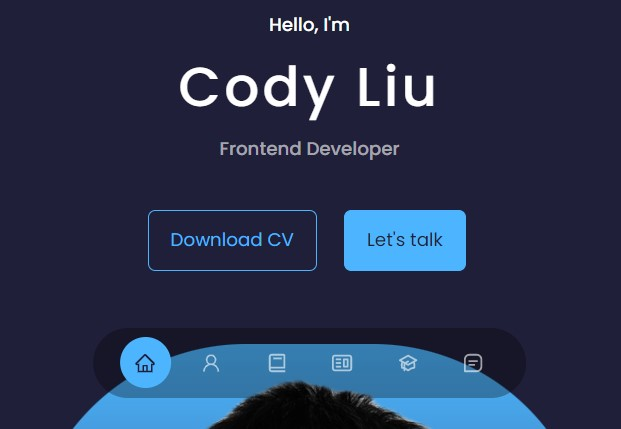
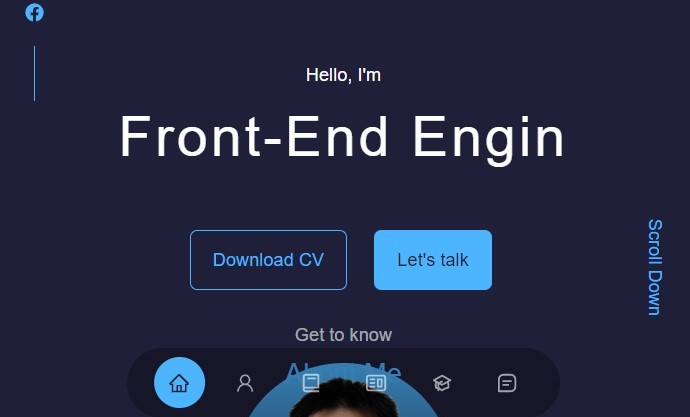
Update content and add typing

diff --git a/src/Components/Portfolio/Portfolio.js b/src/Components/Portfolio/Portfolio.js
@@ -1,4 +1,4 @@
-import React from "react";
+import React, { useState } from "react";
 import "./Portfolio.css";
 import IMG1 from "../../Assets/portfolio-image-1.jpg";
 import IMG2 from "../../Assets/portfolio-image-2.jpg";
@@ -15,70 +15,125 @@ const data = [
     image: IMG1,
     title: "TasBulk (WordPress)",
     host: "https://tasbulk.com.au/",
+    tags: ["Html/Css", "WordPress"],
   },
   {
     id: 2,
     image: IMG2,
     title: "Accounting Firm",
     host: "http://www.accotaxadvisory.com.au/",
+    tags: ["Html/Css"],
   },
   {
     id: 3,
     image: IMG3,
     title: "Omnifood",
     host: "https://food-congliu.netlify.app/",
+    tags: ["Html/Css"],
   },
   {
     id: 4,
     image: IMG4,
     title: "Today I learned",
     host: "https://todayilearned-cody.netlify.app/",
+    tags: ["React"],
   },
   {
     id: 5,
     image: IMG5,
     title: "Natours",
     host: "https://natours-congliu.netlify.app/",
+    tags: ["Html/Css"],
   },
   {
     id: 6,
     image: IMG6,
     title: "Drum Kit",
     host: "https://drum-congliu.netlify.app/",
+    tags: ["JavaScript"],
   },
   {
     id: 7,
     image: IMG7,
     title: "Guess My Number",
     host: "https://guess-congliu.netlify.app/",
+    tags: ["JavaScript"],
   },
   {
     id: 8,
     image: IMG8,
     title: "My Own Website",
     host: "https://liucong789.github.io/my-personal/",
+    tags: ["React"],
   },
 ];
 
 const Portfolio = () => {
+  const [selectedTag, setSelectedTag] = useState("All");
+  const [projectsToShow, setProjectsToShow] = useState(6);
+
+  const uniqueTags = [
+    "All",
+    ...new Set(data.map((project) => project.tags).flat()),
+  ];
+
+  const handleTagClick = (tag) => {
+    setSelectedTag(tag);
+    setProjectsToShow(6);
+  };
+
+  const handleLoadMoreClick = () => {
+    setProjectsToShow((prev) => prev + 6);
+  };
+
   return (
     <section id="portfolio">
       <h4>My recent work</h4>
       <h2>Portfolio</h2>
+      <div className="container tags__container">
+        <ul className="tag-list">
+          {uniqueTags.map((tag) => (
+            <li key={tag}>
+              <button
+                className={`btn btn-primary btn-tags ${
+                  selectedTag === tag ? "selected" : ""
+                }`}
+                onClick={() => handleTagClick(tag)}
+              >
+                {tag}
+              </button>
+            </li>
+          ))}
+        </ul>
+      </div>
+
       <div className="container portfolio__container">
-        {data.map(({ id, image, title, host }) => {
-          return (
-            <article key={id} className="portfolio__item">
-              <div className="portfolio__item-image">
-                <img src={image} alt={title} />
-              </div>
-              <h3>{title}</h3>
-              <a href={host} className="btn" target="_blank">
-                See the website
-              </a>
-            </article>
-          );
-        })}
+        {data
+          .filter(
+            (project) =>
+              selectedTag === "All" || project.tags.includes(selectedTag)
+          )
+          .slice(0, projectsToShow)
+          .map(({ id, image, title, host }) => {
+            return (
+              <article key={id} className="portfolio__item">
+                <div className="portfolio__item-image">
+                  <img src={image} alt={title} />
+                </div>
+                <h3>{title}</h3>
+                <a href={host} className="btn" target="_blank">
+                  See the website
+                </a>
+              </article>
+            );
+          })}
+      </div>
+      <div className="load">
+        {projectsToShow < data.length && (
+          <button className="btn btn-primary" onClick={handleLoadMoreClick}>
+            Load More
+          </button>
+        )}
       </div>
     </section>
   );

diff --git a/src/Components/Header/Header.js b/src/Components/Header/Header.js
@@ -1,11 +1,16 @@
-import React from "react";
+import React, { useState, useEffect } from "react";
 import "./Header.css";
 import CTA from "./CTA";
 import hero from "../../Assets/profile-cody-transparent.png";
 import HeaderSocials from "./HeaderSocials";
 import mp3 from "../../Assets/summer.mp3";
+import TypingEffect from "./TypyingEffect";
+
+// const words = ["CONG LIU", "Front-End Engineer"];
 
 const Header = () => {
+  const messages = ["CONG LIU", "Front-End Engineer"];
+
   return (
     <header className="header">
       <div className="header__top">
@@ -15,15 +20,14 @@ const Header = () => {
         </audio>
       </div>
       <div className="container header__container">
-        <h4>Hello, I'm</h4>
-        <h1>Cong Liu</h1>
-        <h4 className="text-light">Frontend (React) Developer</h4>
-        <CTA />
-        <HeaderSocials />
-
         <div className="me">
           <img src={hero} alt="me" />
         </div>
+
+        <h4>Hello, I'm</h4>
+        <TypingEffect messages={messages} />
+        <CTA />
+        <HeaderSocials />
 
         <a href="#contact" className="scroll__down">
           Scroll Down

diff --git a/src/Components/Header/TypyingEffect.js b/src/Components/Header/TypyingEffect.js
@@ -1,0 +1,33 @@
+import React, { useState, useEffect } from "react";
+
+function TypingEffect({ messages }) {
+  const [index, setIndex] = useState(0);
+  const [message, setMessage] = useState(messages[0]);
+
+  useEffect(() => {
+    const interval = setInterval(() => {
+      setIndex((index) => (index + 1) % messages.length);
+    }, 2000);
+    return () => clearInterval(interval);
+  }, [messages]);
+
+  useEffect(() => {
+    let i = 0;
+    const timeout = setTimeout(() => {
+      const typing = setInterval(() => {
+        if (i < messages[index].length) {
+          setMessage(messages[index].substring(0, i + 1));
+          i++;
+        } else {
+          clearInterval(typing);
+        }
+      }, 100);
+      return () => clearInterval(typing);
+    }, 1000);
+    return () => clearTimeout(timeout);
+  }, [index, messages]);
+
+  return <h1>{message}</h1>;
+}
+
+export default TypingEffect;

diff --git a/src/index.css b/src/index.css
@@ -1,4 +1,5 @@
 @import url("https://fonts.googleapis.com/css2?family=Poppins:wght@300;400;500;600&display=swap");
+@import url("https://fonts.googleapis.com/css2?family=Radio+Canada:wght@300;400;500;600&display=swap");
 
 * {
   padding: 0;
@@ -32,7 +33,7 @@ html {
 }
 
 body {
-  font-family: "Poppins", sans-serif;
+  font-family: "Radio", sans-serif;
   background: var(--color-bg);
   color: var(--color-white);
   line-height: 1.7;
@@ -71,7 +72,7 @@ section > h4 {
 
 section > h2 {
   color: var(--color-primary);
-  margin-bottom: 3rem;
+  margin-bottom: 2rem;
 }
 
 .text-light {
@@ -122,7 +123,7 @@ img {
   }
 
   section {
-    margin-top: 6rem;
+    margin-top: 3.5rem;
   }
 }
 
@@ -133,6 +134,6 @@ img {
   }
 
   section > h2 {
-    margin-bottom: 2rem;
+    margin-bottom: 1.5rem;
   }
 } ;

diff --git a/src/Components/Header/Header.css b/src/Components/Header/Header.css
@@ -1,8 +1,3 @@
-/* .header {
-  height: 100vh;
-  padding-top: 7rem;
-  overflow: hidden;
-} */
 .header__top {
   height: 7rem;
 }
@@ -12,6 +7,7 @@
 }
 
 .header__container {
+  margin-top: 1rem;
   text-align: center;
   height: 100%;
   position: relative;
@@ -46,12 +42,10 @@
 /* =========== ME ============== */
 .header__container .me {
   background: linear-gradient(var(--color-primary), transparent);
-  width: 28rem;
-  height: 30rem;
-  /* position: absolute;
-  left: calc(50% - 14rem); */
-  margin: 4rem auto 0 auto;
-  border-radius: 12rem 12rem 0 0;
+  width: 11rem;
+  height: 11rem;
+  margin: 4rem auto 2.5rem;
+  border-radius: 200px;
   overflow: hidden;
 }
 
@@ -78,7 +72,7 @@
   }
 
   .header__container .me {
-    width: 100%;
+    /* width: 100%; */
   }
 
   .header__socials,

diff --git a/src/Components/Portfolio/Portfolio.css b/src/Components/Portfolio/Portfolio.css
@@ -45,3 +45,35 @@
     gap: 1 rem;
   }
 }
+
+.tags__container {
+  margin-bottom: 2rem;
+}
+
+.tag-list {
+  display: flex;
+  align-items: center;
+  justify-content: center;
+  gap: 2rem;
+}
+
+.btn-tags {
+  font-size: 1.1rem;
+  font-weight: 600;
+  background-color: transparent;
+  color: #eee;
+  border: none;
+}
+
+.load {
+  text-align: center;
+  margin-top: 1.5rem;
+}
+
+@media screen and (max-width: 600px) {
+  .tag-list {
+    display: grid;
+    grid-template-columns: repeat(3, 1fr);
+    row-gap: 0.2rem;
+  }
+}

diff --git a/src/Components/About/About.css b/src/Components/About/About.css
@@ -86,7 +86,7 @@
 /* ============ MEDIA QUERIES (SMALL DEVICES) ============== */
 @media screen and (max-width: 600px) {
   .section__about {
-    margin-top: 11rem;
+    margin-top: 14rem;
   }
 
   .about__me {

diff --git a/src/Components/Header/CTA.js b/src/Components/Header/CTA.js
@@ -9,7 +9,7 @@ const CTA = () => {
         Download CV
       </a>
       <a href="#contact" className="btn btn-primary">
-        Let's talk
+        Hire Me
       </a>
     </div>
   );
